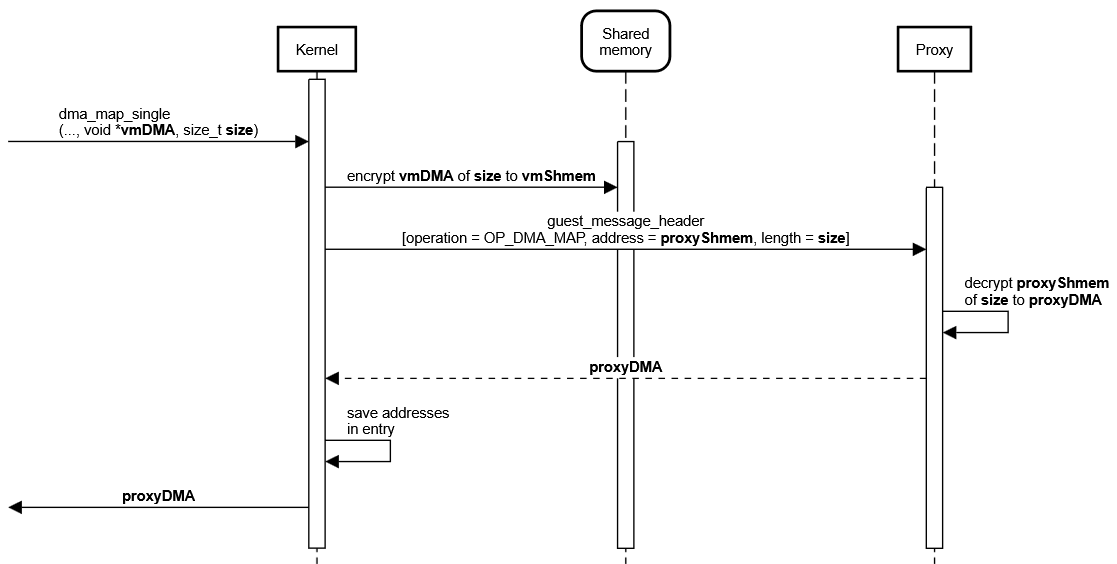
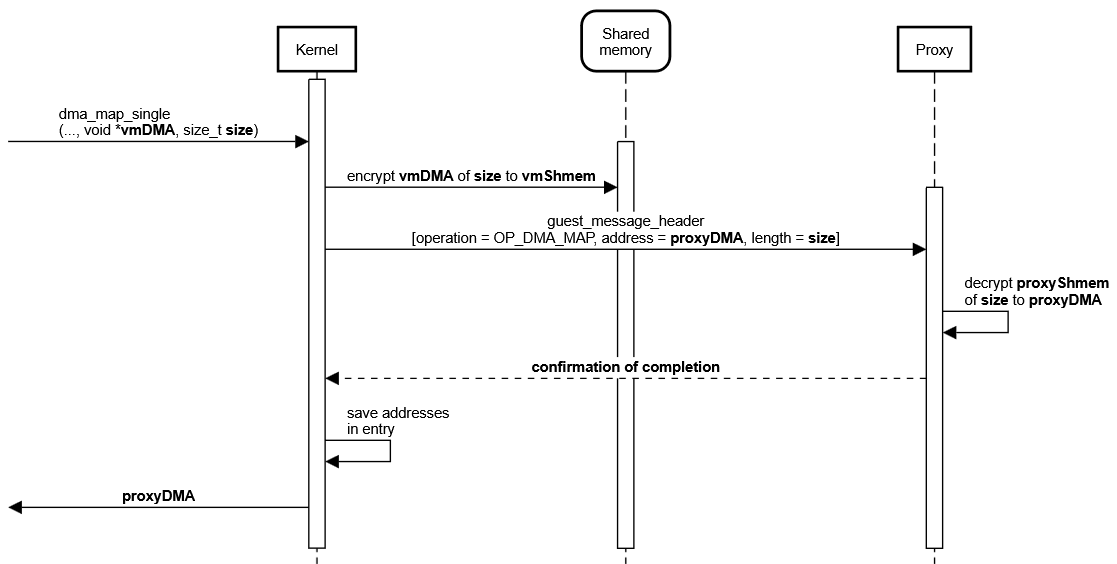
changed protocol format

Changed region(s): [[0.3653, 0.3918, 0.761, 0.4521], [0.4566, 0.633, 0.6392, 0.6631]]

diff --git a/sec_dma_doc/sec_dma_doc.md b/sec_dma_doc/sec_dma_doc.md
@@ -33,7 +33,7 @@ Expects a physically contigous virtual address of size, which is mapped and can 
         dma_unmap_single(struct device *dev, dma_addr_t dma_addr,
                          size_t size, enum dma_data_direction direction)
 Unmaps region which was previously mapped.  
-(TODO: does the dma region has to be invalidated?)
+(TODO: does the dma region has to be invalidated to prevent decryption if key leaks?)
 
         int
         dma_mapping_error(struct device *dev, dma_addr_t dma_addr)
@@ -70,7 +70,7 @@ As this buffer is more or less a copy of the DMA region in the shared memory, wi
 
 The shared memory is divided into different regions.  
 The first two bytes are doorbell registers, used to synchronize the sending/receiving of messages.  
-The next bytes are reserverd for the exchange of messages (see [here](#message-format)) and other data.  
+The next bytes are reserverd for the exchange of messages (see [here](#message-format)) and other data (e.g. values to write or additional addresses for dma_sync).  
 Starting at the 256th byte is the proxyShmem address. This field is written to by the proxy during startup and can be read by the VM. (TODO: Change this; not encrypted)  
 The rest of the shared memory, from page 2 onward (i.e. starting at the 4096th byte), is available to DMA allocations.
 
@@ -111,11 +111,17 @@ Those entries are needed in order to be able to fulfill requests to the [sync-AP
 
 The following sequence diagrams depict the things happening after calling one of the supported DMA API functions.
 The messages and data are all exchanged through the shared memory in a confidential/authenticated/integer way, which is omitted in the sequence diagrams.  
-As there are many addresses, pointing to the different [address spaces](#addresses-overview), in play, the naming convention of [this section](#addresses-overview) is used.  
+As there are many addresses, pointing to the different address spaces, in play, [this](#addresses-overview) naming convention is used.  
+
+#### dma_map_single
 
 ![dma_map_single](seq_dma_map_single.png)
 
+#### dma_snyc_single_for_cpu
+
 ![dma_sync_single_for_cpu](seq_dma_sync_single_for_cpu.png)
+
+#### dma_sync_single_for_device
 
 ![dma_sync_single_for_device](seq_dma_sync_single_for_device.png)
 
@@ -128,10 +134,10 @@ Because one of our design goals is security, the data written into the shared me
   1. Encryption: all data is encrypted with AES-256 in counter mode
   2. Authentication: a tag is created, which can be used to ensure integrity and authentication
 
-Until now, the key is a hard-coded value. The secure key exchange will be added later.  
+Right now, the key is a hard-coded value. The secure key exchange will be added later.  
 GCM needs an initialization vector (IV) as an input to AES CTR mode. We provide a counter as an IV, which we increment after every operation (i.e. encrypt/decrypt). This ensures different ciphertext for the same plaintext. By providing a 12-byte IV there is no need for an additional GHash (TODO: add source).
 
-As there are two encrypted sections in the [shared memory](#shared-memory-structure), one being the messages exchanged within a [protocol](#protocol-sequence-diagram), the other being the DMA region. To handle this there are two different counters (and therefore different IVs), one for each of those regions.  
+As there are two encrypted sections in the [shared memory](#shared-memory-structure), one being the messages exchanged during a [protocol](#protocol-sequence-diagram), the other being the DMA region. To handle this there are two different counters (and therefore different IVs), one for each of those types.  
 (TODO: Create different keys for MMIO/DMA with KDF as otherwise there might be the same plain-/ciphertext pair)
 
 ### Structure
@@ -142,10 +148,12 @@ Every write to the shared memory will append the authentication tag to the encry
 
 When decrypting the data into trusted memory the authentication tag is checked.
 
+As [this section](#protocol-sequence-diagram) states, the sync API also allows partial syncs. As the authentication tag is appended directly to the ciphertext it is possible that ciphertext, created during a previous DMA operation, is overwritten by the tag. This is no problem, as the ciphertext and tag are only read once. This happens in a synchronized manner.
+
 ### Crypto Implementation Libraries
 
 The VM uses the in-kernel crypto API, which provides an implementation of GCM-AES-256.  
-The proxy (running in userspace) relies on OpenSSL as the crypto library, also providing GCM-AES-256.
+The proxy (running in userspace) relies on an OpenSSL crypto library implementation of GCM-AES-256.
 
 ## Benchmarks
 
